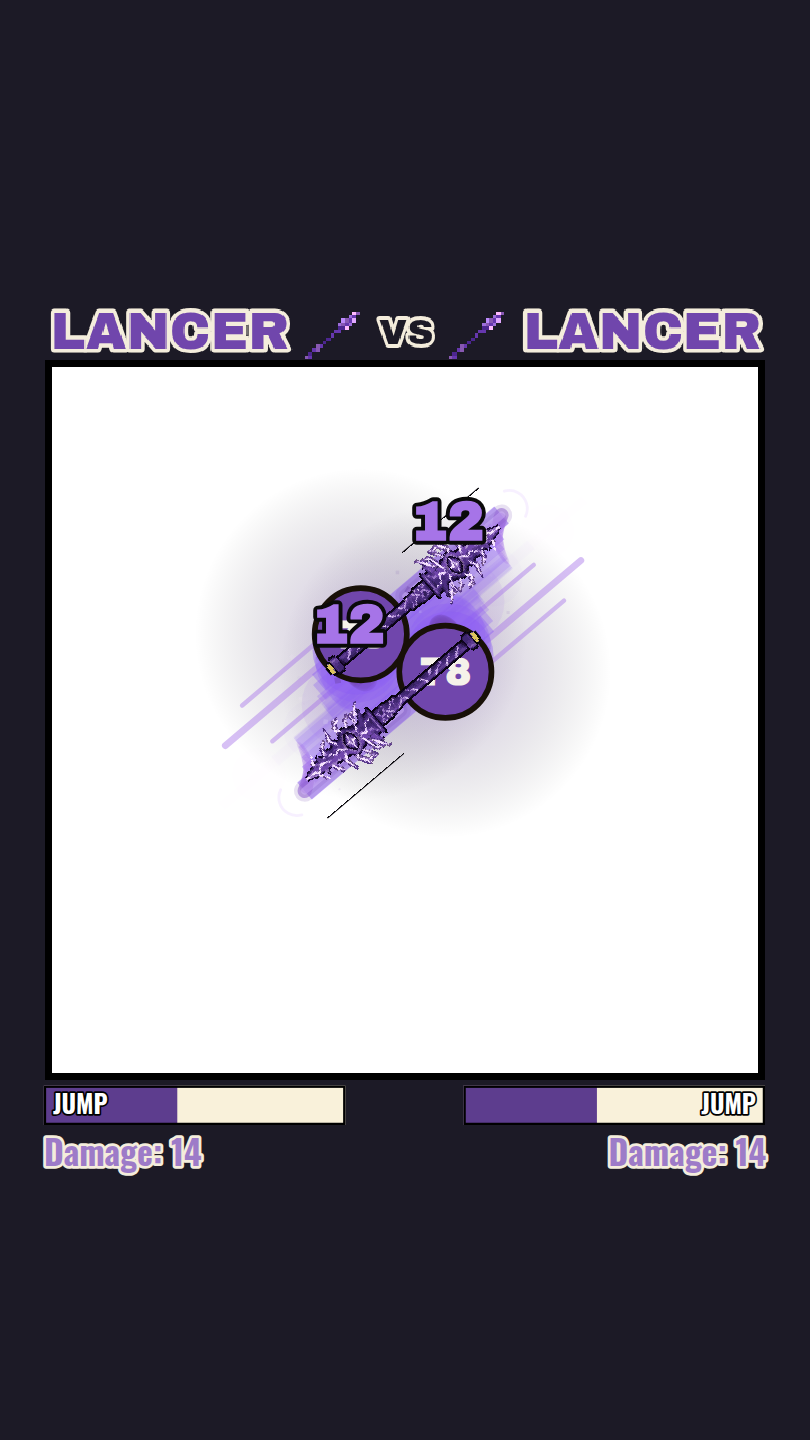
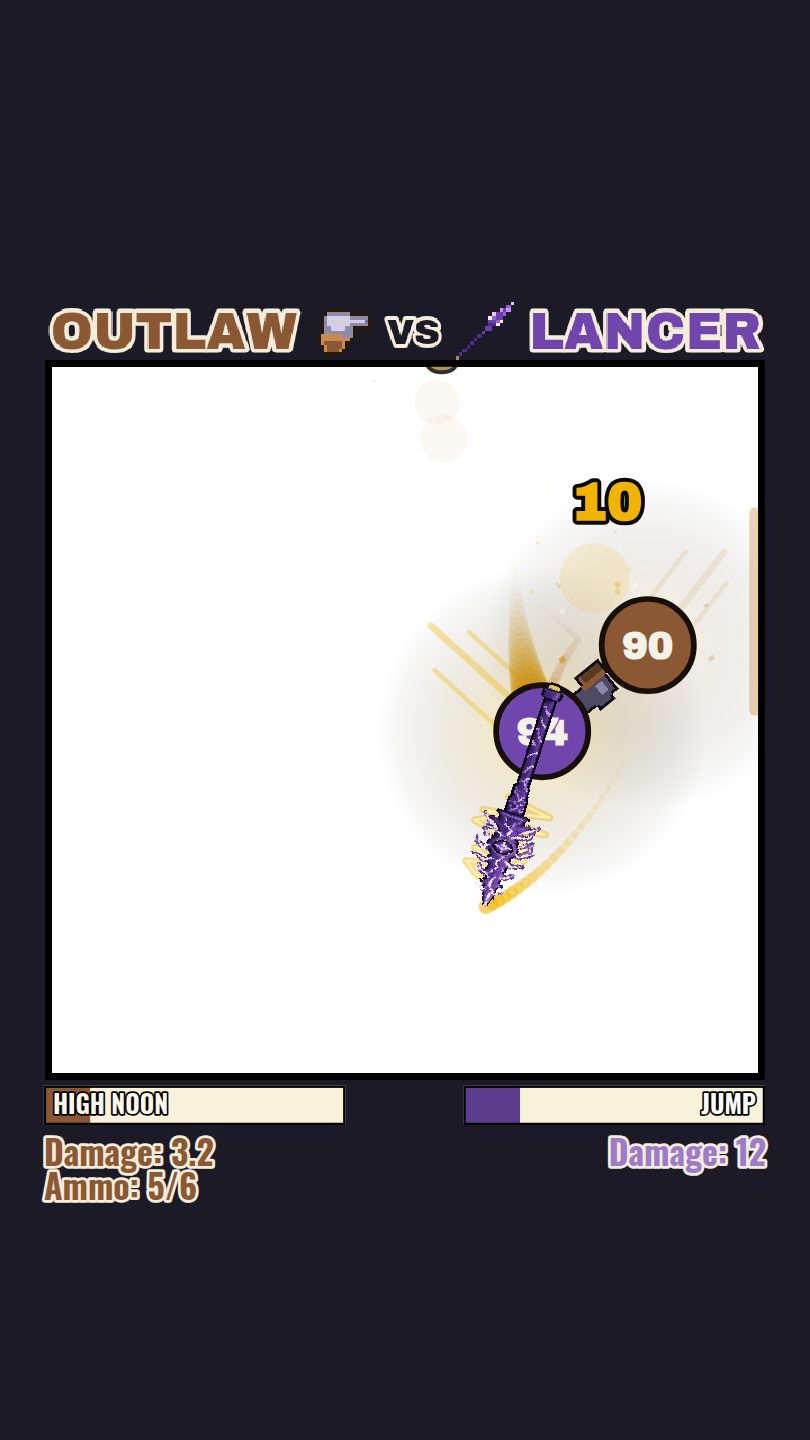
Lancier : arcs électriques sur la lame, et gamme jaune de foudre
Aura électrique

Un sixième effet dans `render/flair.js` : des arcs qui quittent la lame et y
reviennent, l'amplitude étant modulée par un sinus qui s'annule aux deux bouts
— sans quoi ils flotteraient à côté au lieu de décoller et se recoller.

Le tracé est **entièrement déterminé par un hachage** de (indice, temps
quantifié), pas par un tirage. Le rendu a droit à `viewRng`, mais s'en passer
vaut mieux ici : un aléa consommé dans une méthode de *dessin* dépend du nombre
d'images affichées, qui n'est pas le nombre de pas de simulation — deux
machines au même `?seed=` verraient alors des décorations différentes. C'est le
motif déjà utilisé par `abilities/plant.js`.

Deux réglages appris à l'image, et aucun deviné

`rate` décide si c'est de l'électricité ou du bruit. Retiré à chaque image,
soit 60 fois par seconde, le tracé donne du grain de télévision ; à 18 paliers
par seconde l'œil suit chaque arc assez longtemps pour le lire comme un éclair.

L'amplitude doit **dépasser la demi-épaisseur du sprite**. À 13 px sur une lance
qui fait maintenant 55 px de haut dessinée, les arcs restaient entièrement dans
la silhouette — et comme ils sont tracés derrière l'arme, celle-ci les
recouvrait intégralement : l'effet était rigoureusement invisible. À 38 px ils
débordent et grésillent autour de la lame.

Gamme jaune

Aura de bille, boucles de pointe, fuseau, images fantômes, aura d'arme, onde de
pénétration, particules, éclat d'impact, flash de lancement, anneaux de charge
[…]

diff --git a/src/data/elements.js b/src/data/elements.js
@@ -1724,7 +1724,13 @@ const LANCER = {
     hpFont: '900 34px "Archivo Black", "Arial Black", sans-serif',
     hpOffsetY: 12,
     aura: {
-      color: 'rgba(112,70,172,0.5)',
+      /**
+       * Halo de la bille, passé au **jaune de foudre**. Attention au fond :
+       * l'arène est **blanche**, donc un jaune pâle y serait invisible — c'est
+       * la même leçon que le mode additif, qui ne marchait que sur le cadre
+       * sombre. On prend donc un ambre saturé, pas un jaune clair.
+       */
+      color: 'rgba(240,176,0,0.5)',
       radius: 1.66,
       pulse: 2.2,
       showWhen: 'ultimate-ready', // halo cuivre quand le Bond est chargé
@@ -1749,12 +1755,12 @@ const LANCER = {
       // 0,16 s, donc deux points de ruban consécutifs sont très écartés et un
       // trait épais à bouts ronds se referme en **barres pâles** détachées du
       // combattant. À 13, la traînée redevient un trait.
-      ribbon: { color: '#a674e8', width: 13, alpha: 0.5 },
+      ribbon: { color: '#f0b400', width: 13, alpha: 0.55 },
       /** Le fuseau **derrière la bille**, l'autre moitié de sa signature, et
        *  ce que le premier portage avait oublié : le ruban ne suit que la
        *  pointe d'arme. Seul combattant du roster à en porter un. Mesuré
        *  `#a32b4a` au cœur, large au ras du corps et effilé vers l'arrière. */
-      smear: { color: '#6b3fa8', width: 46, alpha: 0.44 },
+      smear: { color: '#c98a00', width: 46, alpha: 0.46 },
       /**
        * **Images fantômes de la charge.** Mesuré : pendant une charge, la
        * traînée n'est pas un trait mais une **bande de billes qui se
@@ -1765,7 +1771,7 @@ const LANCER = {
        * `render/flair.js` qui les dessine, donc ils ne peuvent rien changer au
        * duel.
        */
-      ghost: { color: '#8b5cf6', every: 0.03, alpha: 0.5, lance: 20 },
+      ghost: { color: '#e0a800', every: 0.03, alpha: 0.5, lance: 20 },
       /**
        * **Aura d'arme** — halo le long de la lame, tracé sur `bladeSegment()`,
        * donc solidaire de la portée *et* du décalage latéral de l'arme.
@@ -1776,8 +1782,8 @@ const LANCER = {
        * tirage — inutile de consommer `viewRng` pour ça.
        */
       weaponAura: {
-        color: '#7046ac',
-        core: '#d7bcff',
+        color: '#e0a800',
+        core: '#fff3a8',
         /**
          * Calé au rendu, et resserré depuis 26 : à cette largeur, les trois
          * passes formaient une **gélule** opaque qui délavait la hampe au lieu
@@ -1790,14 +1796,44 @@ const LANCER = {
         pulse: 5.5,
       },
       /**
+       * **Arcs électriques le long de la lame.** Ils quittent la lame et y
+       * reviennent — l'amplitude est modulée par un sinus qui s'annule aux deux
+       * bouts — et grésillent au rythme de `rate` paliers par seconde.
+       *
+       * `rate` est le paramètre qui décide si c'est de l'électricité ou du
+       * bruit : retiré à chaque image (60/s), le tracé donne du grain de
+       * télévision. À 18 paliers par seconde, l'œil suit chaque arc assez
+       * longtemps pour le lire comme un éclair.
+       */
+      weaponArc: {
+        count: 7,
+        steps: 6,
+        span: 0.42,
+        /**
+         * Amplitude, en px. **Elle doit dépasser la demi-épaisseur du sprite**
+         * — la lance fait ~55 px de haut dessinée, donc 27 de demi-épaisseur.
+         * À 13, les arcs restaient entièrement dans la silhouette et on ne
+         * voyait rien du tout : ils sont dessinés derrière l'arme, qui les
+         * recouvrait intégralement.
+         */
+        jitter: 38,
+        rate: 18,
+        boost: 1.6,
+        core: '#fff6c0',
+        glow: '#f0b400',
+        coreWidth: 2,
+        glowWidth: 6.5,
+        alpha: 0.85,
+      },
+      /**
        * **Onde de pénétration**, pendant la charge seulement (conditionnée à
        * `Fighter.boost`). Un sillage en coin ouvert **vers l'arrière** depuis la
        * pointe — ouvert vers l'avant, il se lirait comme un projectile — et un
        * arc de proue juste devant elle.
        */
       pierce: {
-        color: 'rgba(167,116,232,0.55)',
-        core: '#f0e2ff',
+        color: 'rgba(240,176,0,0.5)',
+        core: '#fff6c0',
         // Long et étroit : au premier réglage (60 × 26) le coin se lisait
         // comme une **boule** collée à la pointe. C'est l'élancement qui fait
         // lire « ça transperce ».
@@ -1808,13 +1844,13 @@ const LANCER = {
         bowGap: 9,
         bowWidth: 2.5,
       },
-      motes: { rate: 10, size: 9, drift: 24, rise: -18, colors: ['#c4a2f5', '#7046ac', '#f8e6ff'] },
-      impact: ['#f8e6ff', '#ffffff', '#a674e8'],
+      motes: { rate: 10, size: 9, drift: 24, rise: -18, colors: ['#ffd83d', '#c98a00', '#fff6c0'] },
+      impact: ['#fff6c0', '#ffffff', '#e0a800'],
       shape: 'spark',
-      castFlash: 'rgba(160,110,240,0.6)',
+      castFlash: 'rgba(240,190,40,0.6)',
     },
-    trail: { color: 'rgba(112,70,172,0.30)', every: 0.04, life: 0.32 },
-    accent: '#a674e8',
+    trail: { color: 'rgba(201,138,0,0.30)', every: 0.04, life: 0.32 },
+    accent: '#f0b400',
   },
 
   /** Mesuré 432 px/s (médiane de 37 segments rectilignes, bille isolée par
@@ -1926,8 +1962,8 @@ const LANCER = {
       lateral: 36,
       /** Calé : le recul propre à la charge, ajouté à `melee.selfRecoil`. */
       recoil: 240,
-      dashRing: 'rgba(160,110,240,0.55)',
-      hitRing: { to: 96, time: 0.26, color: 'rgba(215,188,255,0.7)' },
+      dashRing: 'rgba(240,176,0,0.55)',
+      hitRing: { to: 96, time: 0.26, color: 'rgba(255,230,150,0.75)' },
     },
     /** `width: 0` : rien à tracer, toute la lance tient dans `lancerSpear`.
      *  `length` est **négatif** parce que le talon dépasse derrière le pivot

diff --git a/src/render/flair.js b/src/render/flair.js
@@ -26,6 +26,20 @@
 import { ARENA } from '../data/tuning.js';
 import { TAU } from '../core/math.js';
 
+/**
+ * Aléa **pur** — même fonction que dans `abilities/plant.js`.
+ *
+ * Le rendu a droit à `viewRng`, mais s'en passer vaut mieux quand un hachage
+ * suffit : un tirage consommé dans une méthode de *dessin* dépend du nombre
+ * d'images affichées, qui n'est pas le nombre de pas de simulation. Deux
+ * machines au même `?seed=` verraient alors des décorations différentes. Un
+ * hachage de (indice, temps quantifié) rend la même chose partout.
+ */
+function hash01(x) {
+  const v = Math.sin(x) * 43758.5453;
+  return v - Math.floor(v);
+}
+
 const MAX_MOTES = 260;
 const MAX_POPS = 24;
 /** Longueur du ruban d'arme, en pas de simulation (120 Hz). */
@@ -519,6 +533,7 @@ export class Flair {
       this._drawRibbon(ctx, f);
       this._drawPierce(ctx, f);
       this._drawWeaponAura(ctx, f, now);
+      this._drawWeaponArcs(ctx, f, now);
     }
     for (const m of this.motes) {
       if (!m.alive) continue;
@@ -631,6 +646,63 @@ export class Flair {
       ctx.moveTo(b.ax, b.ay);
       ctx.lineTo(b.bx, b.by);
       ctx.stroke();
+    }
+    ctx.restore();
+    ctx.globalAlpha = 1;
+  }
+
+  /**
+   * **Arcs électriques le long de la lame.**
+   *
+   * Opt-in par `look.flair.weaponArc`. Chaque arc part de la lame et y revient :
+   * son amplitude est modulée par un sinus qui s'annule aux deux bouts, donc il
+   * décolle et se recolle au lieu de flotter à côté.
+   *
+   * Le tracé est **entièrement déterminé par un hachage** de (indice, temps
+   * quantifié) : aucun tirage n'est consommé, et le grésillement vient du saut
+   * de `tick` d'un palier à l'autre. Quantifier est ce qui fait la différence
+   * entre de l'électricité et du bruit — à 60 images par seconde, un tracé
+   * retiré à chaque image donne du grain de télévision.
+   *
+   * Comme l'aura, l'intensité monte pendant la charge via `Fighter.boost`, un
+   * compteur générique : le rendu ne sait pas ce qu'est une charge.
+   */
+  _drawWeaponArcs(ctx, f, now) {
+    const spec = f.el.look.flair?.weaponArc;
+    if (!spec) return;
+    const b = f.bladeSegment();
+    const dx = b.bx - b.ax;
+    const dy = b.by - b.ay;
+    const len = Math.hypot(dx, dy) || 1;
+    const nx = -dy / len;
+    const ny = dx / len;
+    const tick = Math.floor(now * spec.rate);
+    const hot = f.boost > 0 ? spec.boost : 1;
+
+    ctx.save();
+    ctx.lineCap = 'round';
+    ctx.lineJoin = 'round';
+    for (let pass = 0; pass < 2; pass++) {
+      ctx.strokeStyle = pass === 0 ? spec.glow : spec.core;
+      ctx.lineWidth = (pass === 0 ? spec.glowWidth : spec.coreWidth) * hot;
+      ctx.globalAlpha = spec.alpha * (pass === 0 ? 0.5 : 1) * hot;
+      for (let i = 0; i < spec.count; i++) {
+        const t0 = hash01(i * 12.9898 + tick * 0.317) * (1 - spec.span);
+        const t1 = t0 + spec.span * (0.4 + 0.6 * hash01(i * 78.233 + tick * 0.911));
+        ctx.beginPath();
+        for (let k = 0; k <= spec.steps; k++) {
+          const u = k / spec.steps;
+          const t = t0 + (t1 - t0) * u;
+          // enveloppe en sinus : l'arc quitte la lame et y revient
+          const env = Math.sin(u * Math.PI);
+          const j = (hash01(i * 3.71 + k * 91.7 + tick * 1.13) - 0.5) * 2 * spec.jitter * env;
+          const px = b.ax + dx * t + nx * j;
+          const py = b.ay + dy * t + ny * j;
+          if (k === 0) ctx.moveTo(px, py);
+          else ctx.lineTo(px, py);
+        }
+        ctx.stroke();
+      }
     }
     ctx.restore();
     ctx.globalAlpha = 1;

diff --git a/CLAUDE.md b/CLAUDE.md
@@ -75,7 +75,7 @@ qui tienne sur toute la vidéo.
 | Portée | centre → pointe = **164 px**, la plus longue du roster | `weapon.reach: 164` |
 | Talon | dépasse de 42 px **derrière** le pivot | `handle.length: -44` — −44 + 104 × 2 = 164 |
 | **Angle d'arme** | **la lance suit le cap de déplacement** : 6,6° d'écart médian sur 141 images, contre 37,9° du cap vers l'adversaire | `weapon.spin: 0`, et `abilities/lancer.js` recopie `heading` |
-| Traînée | cinq effets : boucles de pointe, fuseau, **images fantômes pendant la charge**, **aura d'arme** le long de la lame et **onde de pénétration** à la pointe — le tout en violet électrique | `look.flair.ribbon`, `.smear`, `.ghost`, `.weaponAura`, `.pierce` |
+| Traînée | six effets, **en jaune de foudre** : boucles de pointe, fuseau, images fantômes pendant la charge, aura d'arme, **arcs électriques le long de la lame** et onde de pénétration | `look.flair.ribbon`, `.smear`, `.ghost`, `.weaponAura`, `.weaponArc`, `.pierce` |
 | Charge | **~1 400 px/s pendant ~0,15 s**, contre 540 en croisière | `weapon.lunge.speed: 2.6`, `.dash: 0.16` |
 | Cadence relevée | **5 touches en 27,6 s = 0,181 coup/s**, budget 2,54 PV/s | le moteur rend 0,195 et **2,52** |
 | Dégâts | 10, **+2 par touche portée** | `stack: 10`, `stackGain: 2`, plafond `déduit` à 15 |
@@ -470,10 +470,22 @@ sans que ça se voie.
   sombre `#1c1a26`**. L'arène reste blanche → le pixel-art garde ses contours
   noirs mesurés. Le « chrome » posé sur le fond sombre (titre, lignes de stat)
   passe à un liseré crème `STAGE.outline` ; les jauges gardent une plaque crème.
-- **La traînée du Lancier est passée du cramoisi au violet électrique.** Le
-  cramoisi `#c2385a` / `#a32b4a` est **mesuré**, mais une traînée cramoisie
-  derrière une lance violette se lisait comme deux personnages superposés. Même
-  lot que la bille et la jauge.
+- **La traînée du Lancier est jaune de foudre.** Le cramoisi `#c2385a` /
+  `#a32b4a` est **mesuré** ; il est passé au violet avec l'arme, puis au jaune
+  pour dire la foudre. Contrainte de fond à ne pas oublier : **l'arène est
+  blanche**, donc un jaune pâle y serait invisible — la gamme est en ambres
+  saturés (`#f0b400`, `#c98a00`), pas en jaunes clairs. C'est la même leçon que
+  le mode additif, qui ne fonctionnait que sur le cadre sombre.
+- **Les arcs électriques le long de la lame** (`look.flair.weaponArc`) sont
+  tracés par un **hachage pur** de (indice, temps quantifié), pas par un tirage :
+  un aléa consommé dans une méthode de *dessin* dépendrait du nombre d'images
+  affichées, qui n'est pas le nombre de pas de simulation, et deux machines au
+  même `?seed=` verraient des décorations différentes. Deux réglages appris à
+  l'image : `rate` décide si c'est de l'électricité ou du bruit (retiré à chaque
+  image, le tracé donne du grain de télévision ; à 18 paliers par seconde l'œil
+  suit chaque arc), et l'amplitude doit **dépasser la demi-épaisseur du sprite**
+  — à 13 px sur une lance de 55 px de haut, les arcs restaient entièrement dans
+  la silhouette, qui les recouvrait, et on ne voyait rien.
 - **L'aura d'arme et l'onde de pénétration sont des ajouts**, pas des relevés.
   Tous deux vivent dans `render/flair.js`, donc ils ne peuvent rien changer au
   duel — c'est exactement ce que cette porte d'entrée sert à garantir, et la
